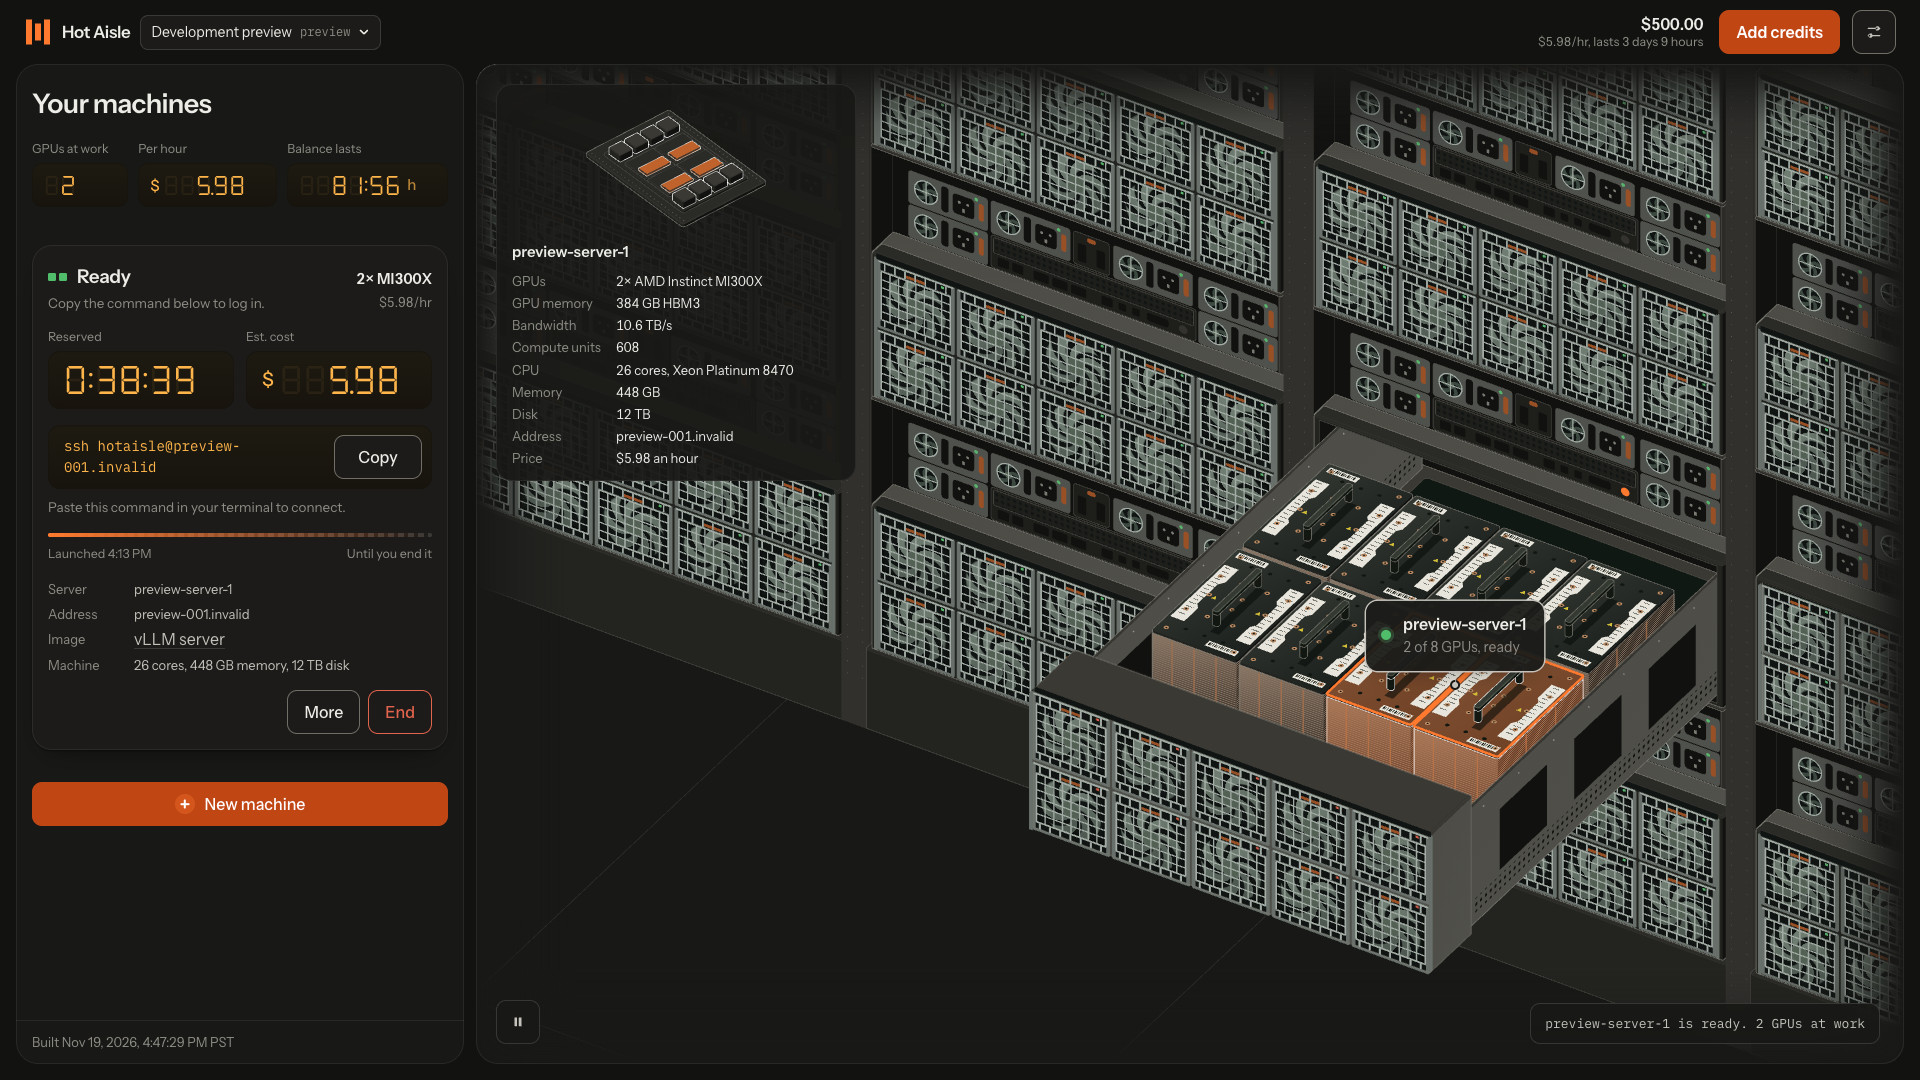
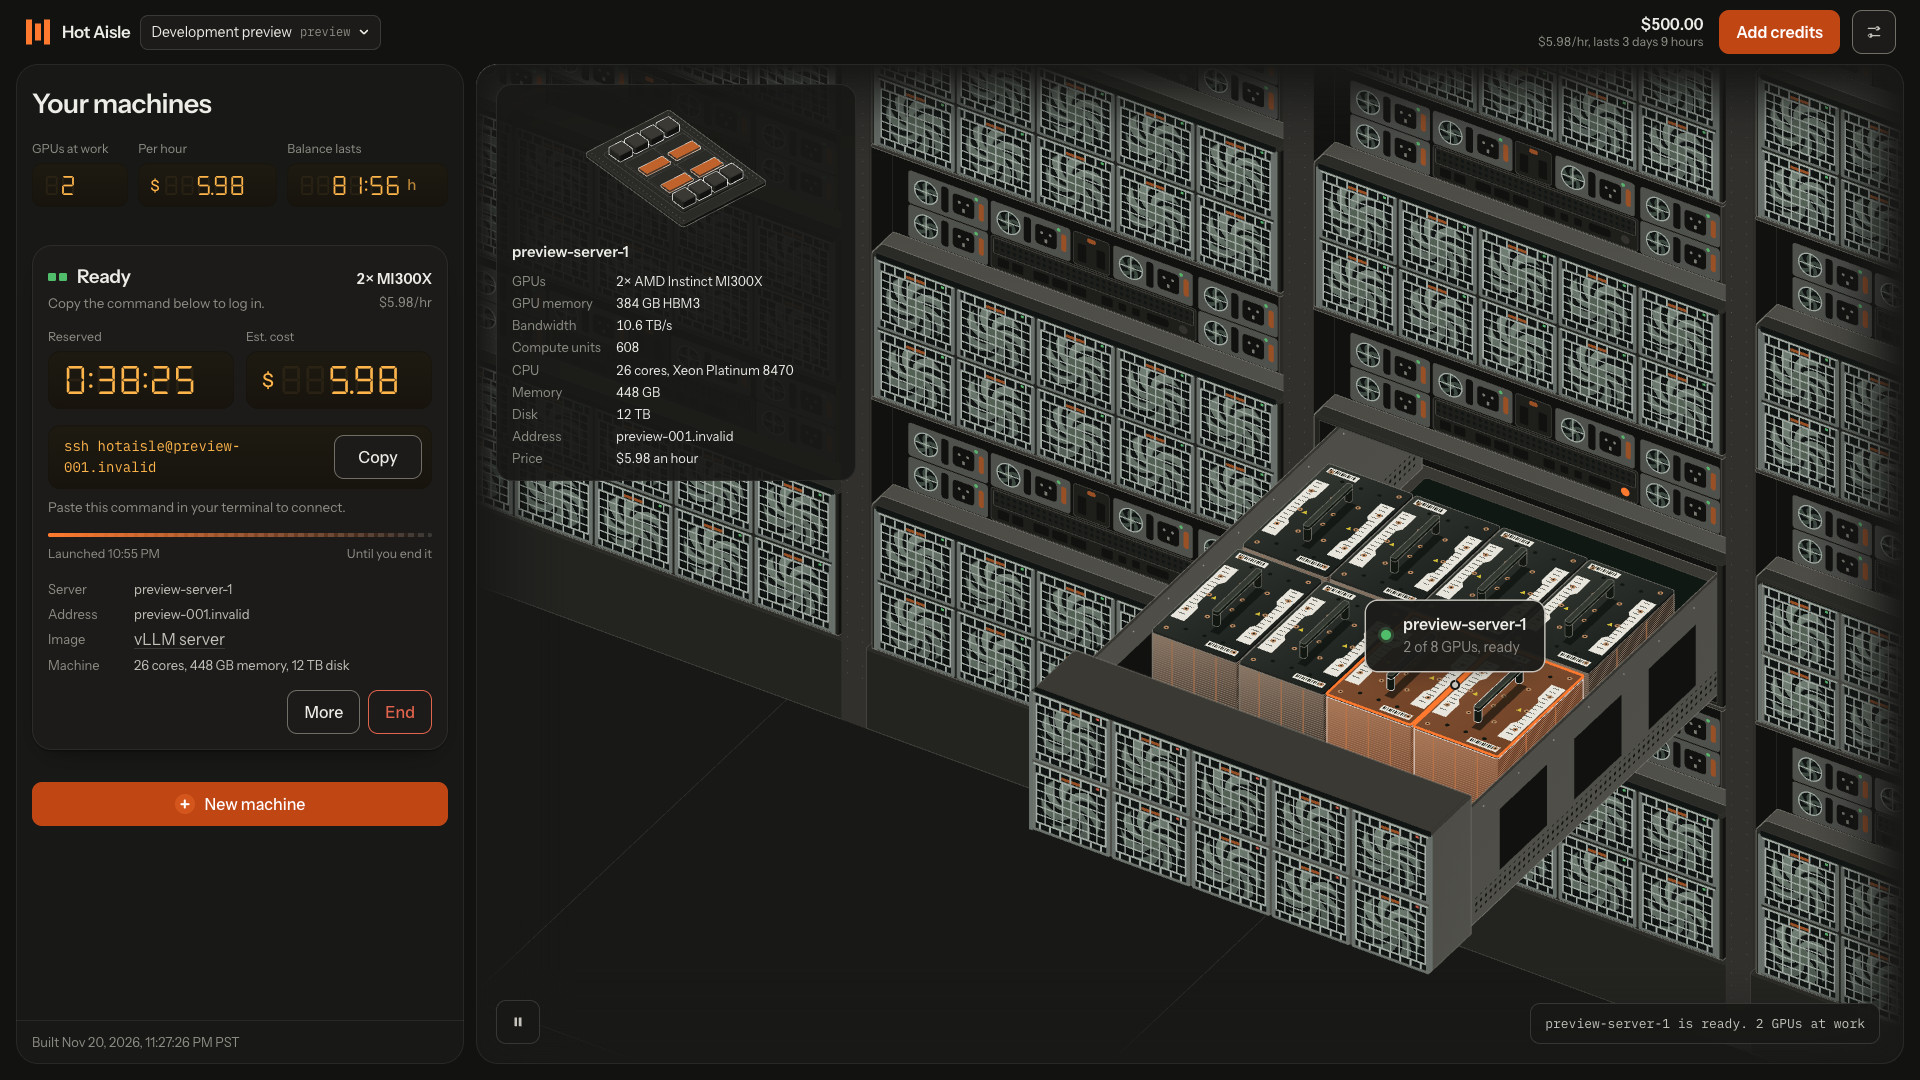
fix: stabilize launch first paint and refresh Console media (#28)
* fix(launch): prevent option selection flash on load

* chore(media): refresh screenshots and prepare Heart narration

Refresh light and dark Console captures and remove the obsolete intro caption band.
Use Heart for future narration; keep the Ocean walkthrough local pending music publication permission.

diff --git a/web/src/features/launch/order-view.test.tsx b/web/src/features/launch/order-view.test.tsx
@@ -241,6 +241,21 @@ describe("rental availability and credits", () => {
 			expect(screen.getByRole("button", { name: HOLD_ANY })).toBeDisabled();
 		}
 	);
+	it("renders the available size and price before fallback navigation completes", () => {
+		const metal = {
+			...OFFER,
+			metal: true,
+			Specs: { ...OFFER.Specs, gpus: [{ count: 8, model: "MI300X" }] },
+		};
+		const props = open({ offers: [metal] });
+		// The mocked navigation deliberately leaves the original one-GPU URL unchanged.
+		expect(props.setOrder).toHaveBeenCalledWith({ count: 8 });
+		expect(screen.getByRole("radio")).toBeChecked();
+		expect(screen.getByRole("button", { name: HOLD_METAL })).toBeEnabled();
+		expect(screen.getByRole("button", { name: HOLD_METAL })).toHaveTextContent(
+			"$3.00/hr"
+		);
+	});
 	it("settles the automatic size fallback when offers are freshly derived during navigation", async () => {
 		const router = openRouted("/teams/lab/launch?gpus=1");
 		await screen.findByRole("button", { name: HOLD_TWO });

diff --git a/web/src/features/launch/order-view.tsx b/web/src/features/launch/order-view.tsx
@@ -64,8 +64,12 @@ export function OrderView({
 	const { image, customURL } = order;
 
 	// Legacy count-only links may choose an available size; explicit classes never switch silently.
-	const currentSize = selectedOffer(sizes, order);
-	const fallbackCount = fallbackGPUCount(sizes, order, currentSize);
+	const requestedSize = selectedOffer(sizes, order);
+	const fallbackCount = fallbackGPUCount(sizes, order, requestedSize);
+	// Render the resolved selection immediately; URL synchronization must not flash an empty selection.
+	const currentSize = fallbackCount
+		? selectedOffer(sizes, { count: fallbackCount })
+		: requestedSize;
 	const requestedCount = useRef<number>(undefined);
 	useEffect(() => {
 		if (!fallbackCount) {

diff --git a/web/src/styles/entrance.css b/web/src/styles/entrance.css
@@ -11,9 +11,6 @@
 .app.entering .plate {
 	animation: plate-in 900ms var(--ease) both;
 }
-.app.entering .order .opt {
-	animation: enter 620ms var(--ease) both;
-}
 .app.entering .order .details {
 	animation: enter 620ms var(--ease) both;
 	animation-delay: 370ms;
@@ -39,15 +36,6 @@
 }
 .app.entering .pv-body > :nth-child(2) {
 	animation-delay: 480ms;
-}
-.app.entering .order .opt:nth-child(1) {
-	animation-delay: 220ms;
-}
-.app.entering .order .opt:nth-child(2) {
-	animation-delay: 270ms;
-}
-.app.entering .order .opt:nth-child(3) {
-	animation-delay: 320ms;
 }
 @keyframes enter {
 	from {

diff --git a/worker/scripts/showcase-artwork.ts b/worker/scripts/showcase-artwork.ts
@@ -96,9 +96,6 @@ ${logo}
 			if (loaded) {
 				// The toolbar reveals the page without stretching or moving its text.
 				context.drawImage(signIn, 0, 0, 1920, 1080);
-				// Playback captions begin with narration, after the browser intro.
-				context.fillStyle = "#171714";
-				context.fillRect(0, 976, 1920, 104);
 			}
 			context.fillStyle = "#292a2d";
 			context.fillRect(0, toolbar - 140, 1920, 140);

diff --git a/worker/scripts/prepare-showcase.ts b/worker/scripts/prepare-showcase.ts
@@ -40,7 +40,7 @@ function command(file: string, args: string[]) {
 }
 
 const MODEL = "onnx-community/Kokoro-82M-v1.0-ONNX";
-const VOICE = "af_bella";
+const VOICE = "af_heart";
 const transformers = await loadShowcaseTool<{ env: { cacheDir: string } }>(
 	"@huggingface/transformers"
 );

diff --git a/docs/media-sync.md b/docs/media-sync.md
@@ -206,10 +206,13 @@ not just JPEGs. Edit the blog source asset directory, never its generated mirror
 ## Compose the video and delivery copy
 
 Follow [music and beat timing](showcase.md#music-and-beat-timing) for the exact
-tracked excerpt and existing voice configuration. Current composition uses the
-provided Flavour Trip excerpt beginning at 33.04 seconds, 118 BPM, Bella's original
-voice pitch/speed, and at most 6 dB music ducking. Keep these choices unless the
-user changes them. The two-minute excerpt is retained in
+tracked excerpt and existing voice configuration. The published take uses the
+provided Flavour Trip excerpt beginning at 33.04 seconds, 118 BPM, and Bella.
+New narration uses Heart at its original pitch/speed, with at most 6 dB music
+ducking. The refreshed Ocean/Heart walkthrough, captions, transcript, and poster
+remain local pending music publication permission. The public video set remains
+unchanged; the refreshed screenshots can be published independently.
+The two-minute Flavour Trip excerpt is retained in
 `tools/showcase/assets/flavour-trip-brunch-excerpt.m4a`, including roughly 23 seconds
 beyond the current edit; a clone includes it. The full recording stays untracked.
 Do not trim the excerpt again or silently substitute a different song or voice.
@@ -273,6 +276,9 @@ theme change, and both cards. Confirm captions/voice agree, actions land in thei
 scenes, pauses are readable, the song remains audible, and text stays in place.
 Check both themes, selected-GPU rings, drawer/fans, specs edges, panel scrolling,
 and unclipped content. A successful encode alone is not visual QA.
+Inspect the browser intro through the fully revealed sign-in frame, not just its
+opening card. Preserve the captured page across its full height; obsolete
+caption-background strips can create a visible band before the walkthrough starts.
 
 In Console, run the required checks for changed code and the Worker suite before
 each commit. For media packaging changes, verify the normal production build and

diff --git a/docs/implementation.md b/docs/implementation.md
@@ -121,6 +121,8 @@ Selection, estimates, stage specifications, and reservation requests use the sam
 stock and prices, so polling and catalog reordering preserve the selection. If an explicitly selected class
 disappears or sells out, launch is blocked rather than silently choosing another. Count-only legacy links
 retain their available-size fallback; numeric shortcuts apply only to unambiguous GPU counts.
+The picker renders its available-size fallback before synchronizing the URL, so selection and pricing
+do not briefly appear empty. Option rows do not replay staggered entrance animations when inventory loads.
 
 The team chooser refreshes memberships and invitations every 30 seconds while active, and on returning to
 the tab. Failed background updates keep the current list visible and offer a retry in a dismissible notice.

diff --git a/docs/showcase.md b/docs/showcase.md
@@ -31,7 +31,7 @@ bun install --cwd tools/showcase --frozen-lockfile
 bun run showcase
 ```
 
-This generates narration locally with Kokoro's Bella female voice and FFmpeg, then
+This generates narration locally with Kokoro's Heart female voice and FFmpeg, then
 builds preview assets. It uses the fixed voice at its original pitch and speed.
 The first run downloads the public 82M model into ignored `tools/showcase/.cache/`.
 Speech runs on the CPU; narration is not sent to a speech service. Native media tools
